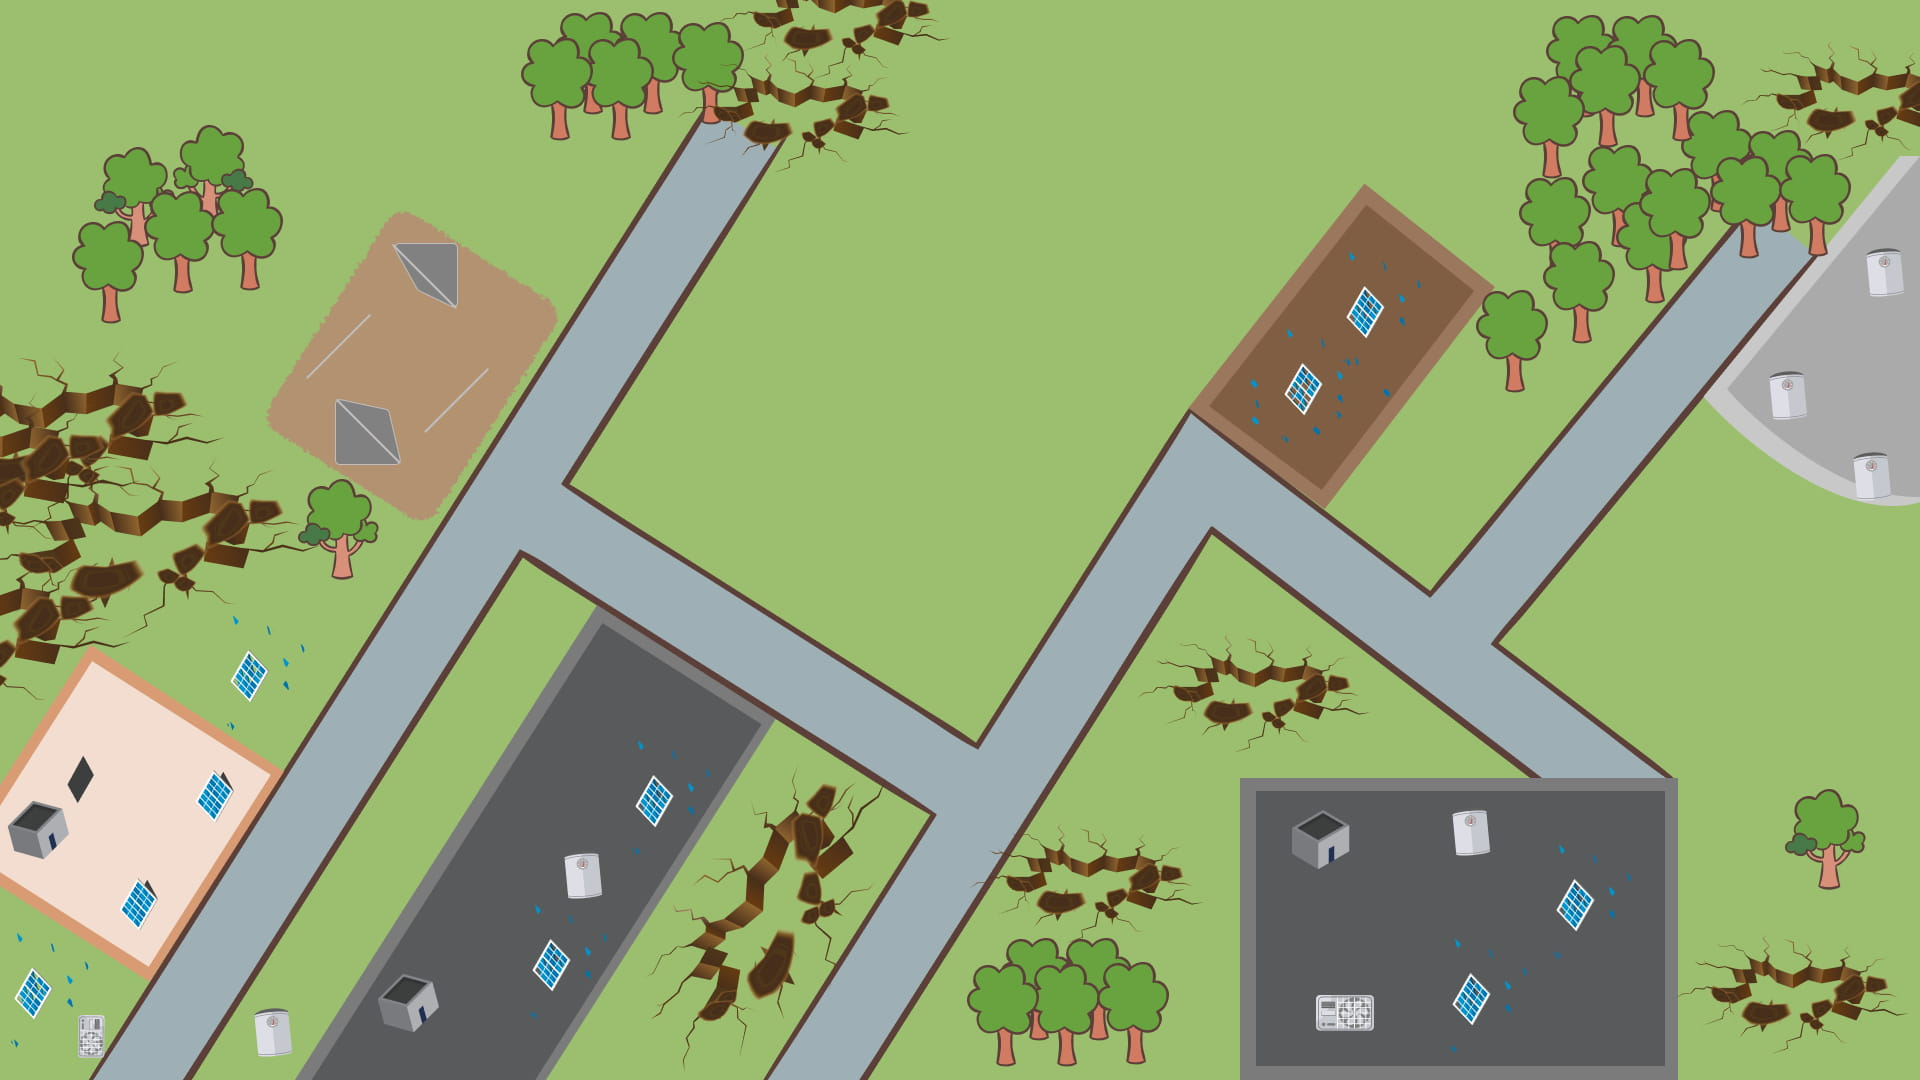
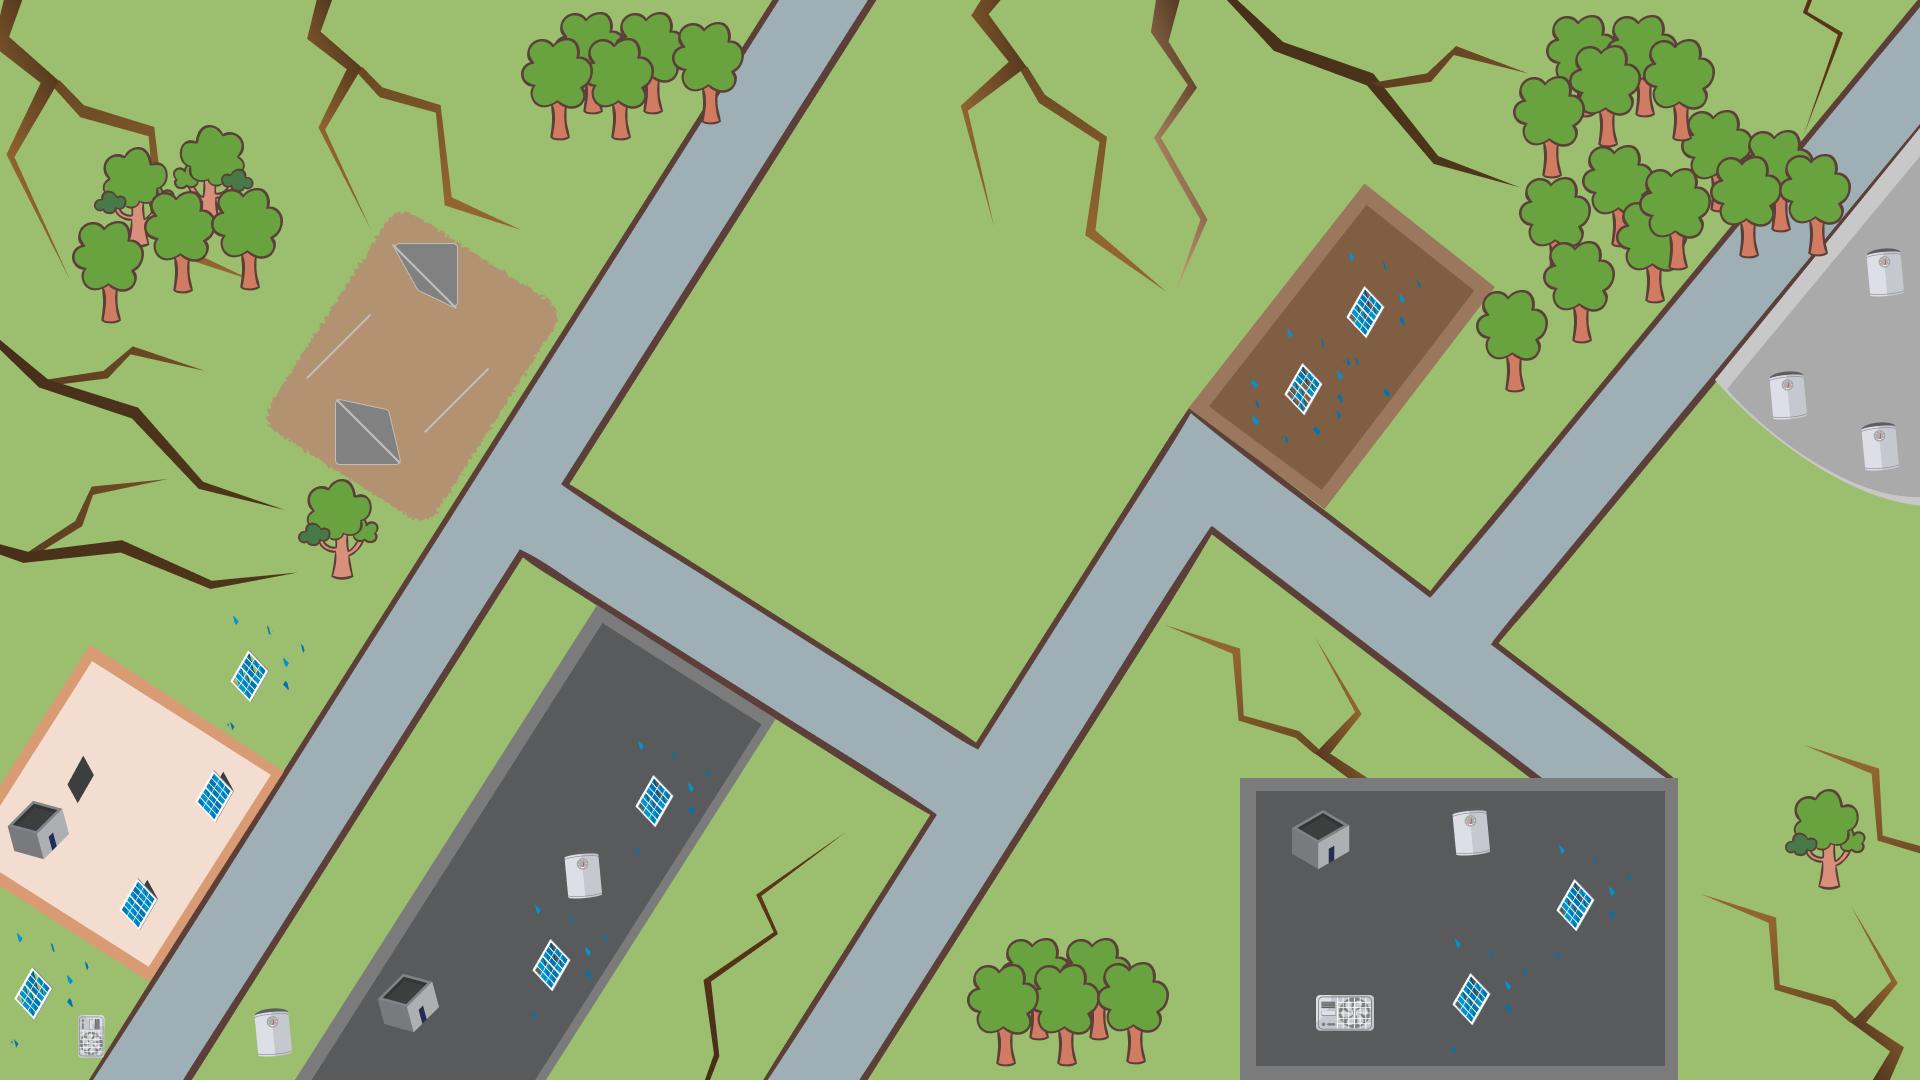
Updates

diff --git a/index.html b/index.html
@@ -1,1 +1,1 @@
-<!doctype html><html lang="en"><head><meta charset="utf-8"/><link rel="icon" href="/hagaa-lomda/favicon.ico"/><meta name="viewport" content="width=device-width,initial-scale=1"/><meta name="theme-color" content="#000000"/><meta name="description" content="המכללה הלאומית לאיתנות ישראלית"/><link rel="apple-touch-icon" href="/hagaa-lomda/logo192.png"/><link rel="manifest" href="/hagaa-lomda/manifest.json"/><title>לומדת הג"א</title><script defer="defer" src="/hagaa-lomda/static/js/main.008a8e46.js"></script><link href="/hagaa-lomda/static/css/main.2ea21075.css" rel="stylesheet"></head><body><noscript>You need to enable JavaScript to run this app.</noscript><div id="root"></div></body></html>
+<!doctype html><html lang="en"><head><meta charset="utf-8"/><link rel="icon" href="/hagaa-lomda/favicon.ico"/><meta name="viewport" content="width=device-width,initial-scale=1"/><meta name="theme-color" content="#000000"/><meta name="description" content="המכללה הלאומית לאיתנות ישראלית"/><link rel="apple-touch-icon" href="/hagaa-lomda/logo192.png"/><link rel="manifest" href="/hagaa-lomda/manifest.json"/><title>לומדת הג"א</title><script defer="defer" src="/hagaa-lomda/static/js/main.c82017fd.js"></script><link href="/hagaa-lomda/static/css/main.c25f9654.css" rel="stylesheet"></head><body><noscript>You need to enable JavaScript to run this app.</noscript><div id="root"></div></body></html>